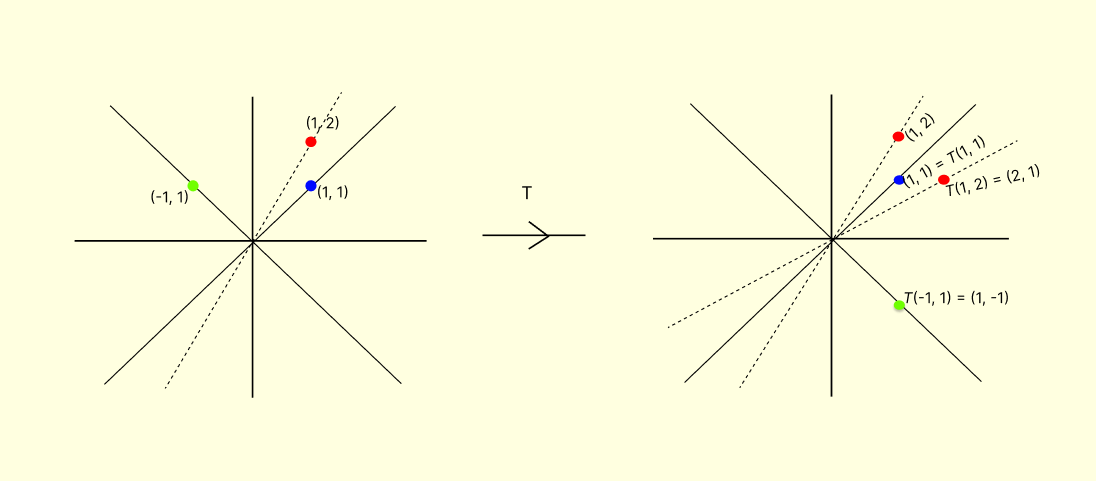
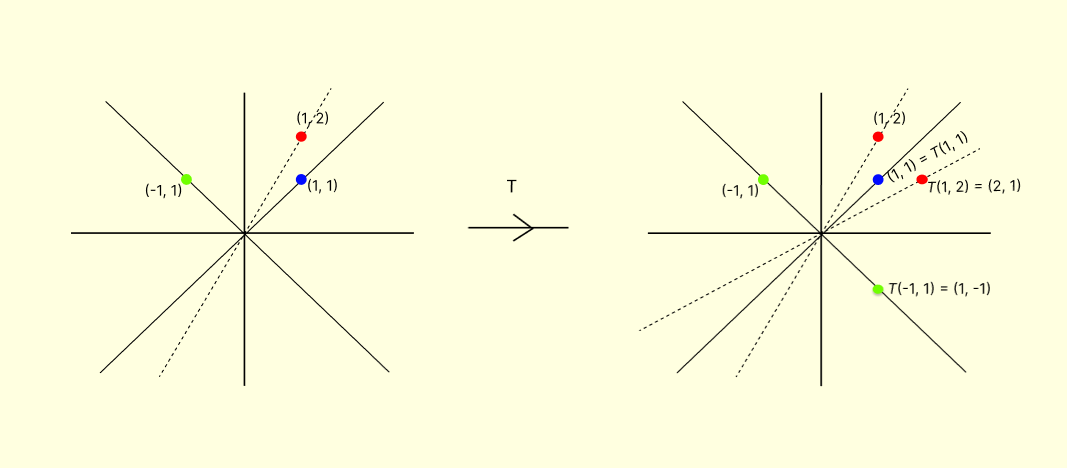
update

diff --git a/experiment/simulation/example1.html b/experiment/simulation/example1.html
@@ -17,9 +17,9 @@
 	<div class="container">
 
 	
-    	<p id="exmpp" ><i>T:R</i><sup>2</sup> &rarr; <i>R</i><sup>2</sup><br><i>T</i>(<i>x, y</i>) = (<i>y, x</i>), (<i>x, y</i>)&isin;<i>R</i><sup>2</sup></p>
+    	<p id="exmpp" ><i>T:R</i><sup>2</sup> &rarr; <i>R</i><sup>2</sup><br><i>T</i>(<i>x, y</i>) = (<i>y, x</i>); (<i>x, y</i>)&isin;<i>R</i><sup>2</sup></p>
 
-        <button class="subbtn" ><b>Eigen Values </b></button><br>
+        <button class="subbtn" ><b>Eigenvalues </b></button><br>
 		<ul  id="eval"><li>Eigenvalues of <i>T</i> are <select name="" id="valSelect0">
             
             <option value="a">--Select--</option>
@@ -32,7 +32,7 @@
 </ul>
        
 
-        <button class="subbtn"><b>Eigen Vectors </b></button><br>
+        <button class="subbtn"><b>Eigenvectors </b></button><br>
         <ul><li><b>Corresponding to eigenvalue 1</b></li>
             <ul>
             <li><p id="evector"><select name="" id="vectorSelect1">
@@ -64,7 +64,7 @@
             <option value="b">(1, -1)</option>
             <option value="c">(1, 1)</option>
             <option value="d">(-1, -1)</option>
-            <option value="e">(-1, 1)</option>
+            <option value="e">(-1, 2)</option>
         </select> is an eigenvector. <button class="subbtn3" type="submit" id="mulx"  onclick="p2que3()">Submit</button></li>
         <p id="p2result3"></p>
 
@@ -82,7 +82,11 @@
     </ul>
 		
 		<p style="background-color: yellowgreen; font-size: 28PX; text-align: center; border: 1px solid;">Visualization</p>
-		<img id="exmp1" src="images/visualimg1.PNG">
+<ul><p><b>Excersise:</b> Draw a diagram showing images of (1, 1), (1, 2) and (-1, 1) to determine which of these are eigenvectors, by visualization. <br><b>Answer:</b> <button class="subbtn3" type="submit" id="visualimg"  onclick="visualization()">Click here</button></p>
+
+</ul>
+        
+		<img id="exmp1" src="images/visualimg2.PNG">
             
 		
 		

diff --git a/experiment/simulation/index.html b/experiment/simulation/index.html
@@ -22,6 +22,9 @@
 </li> 
     
           <img id="multX" src="images/multX111.png">
+
+
+          <p id="note" style="visibility: hidden; color: blue;">Note: &lambda; &isin; <i>R</i> and <i>L</i> is the line passing through the origin and <i>x</i></p>
         <li><p style="font-size: 1.4rem;"><select name="" id="vectorSelect">
             
             <option value="a">--Select--</option>
@@ -110,8 +113,8 @@
          
         <p class="results" id="result5"></p>
 
-         <li><p style="font-size: 1.4rem;"><i>y</i> is an eigenvector corresponding to eigenvalue &lambda;, 
-            if for <i>y</i>&isin;<i>R</i><sup>2</sup>, <i>T</i>(<i>x</i>) = &lambda;<i>x</i> and 
+         <li><p style="font-size: 1.4rem;"><i>x</i>&isin;<i>R</i><sup>2</sup> is an eigenvector of <i>T</i> corresponding to the eigenvalue &lambda;, 
+            if <i>T</i>(<i>x</i>) = &lambda;<i>x</i> and 
             
             <select name="" id="vectorSelect6">
             

diff --git a/experiment/simulation/js/script.js b/experiment/simulation/js/script.js
@@ -1,5 +1,6 @@
 function mulX2(){
     document.getElementById('multX').src='images/multX.png';
+    document.getElementById('note').style.visibility = 'visible';
 }
 function txfun(){
     document.getElementById('tximg').src='images/tx111.png';
@@ -238,4 +239,9 @@ else{
     result.style.color = "red";
     
   }}
+}
+
+function visualization() {
+  document.getElementById('exmp1').src='images/visualimg1.PNG';
+
 }
